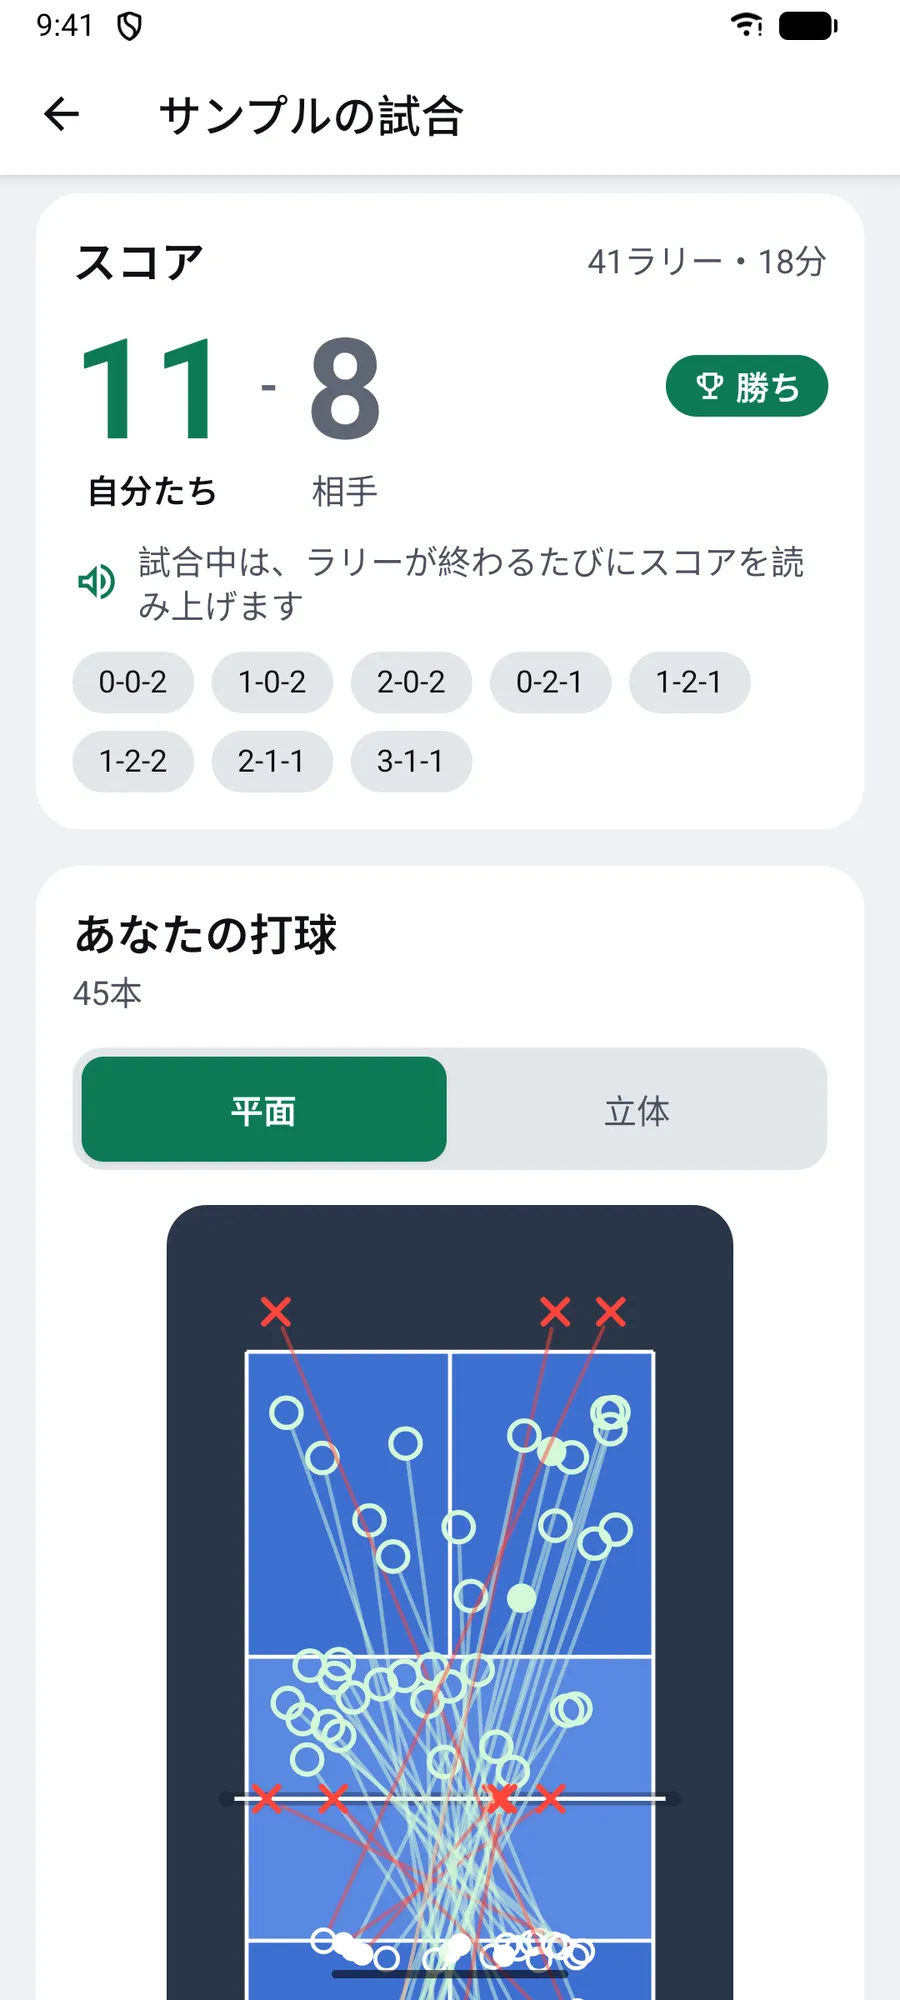
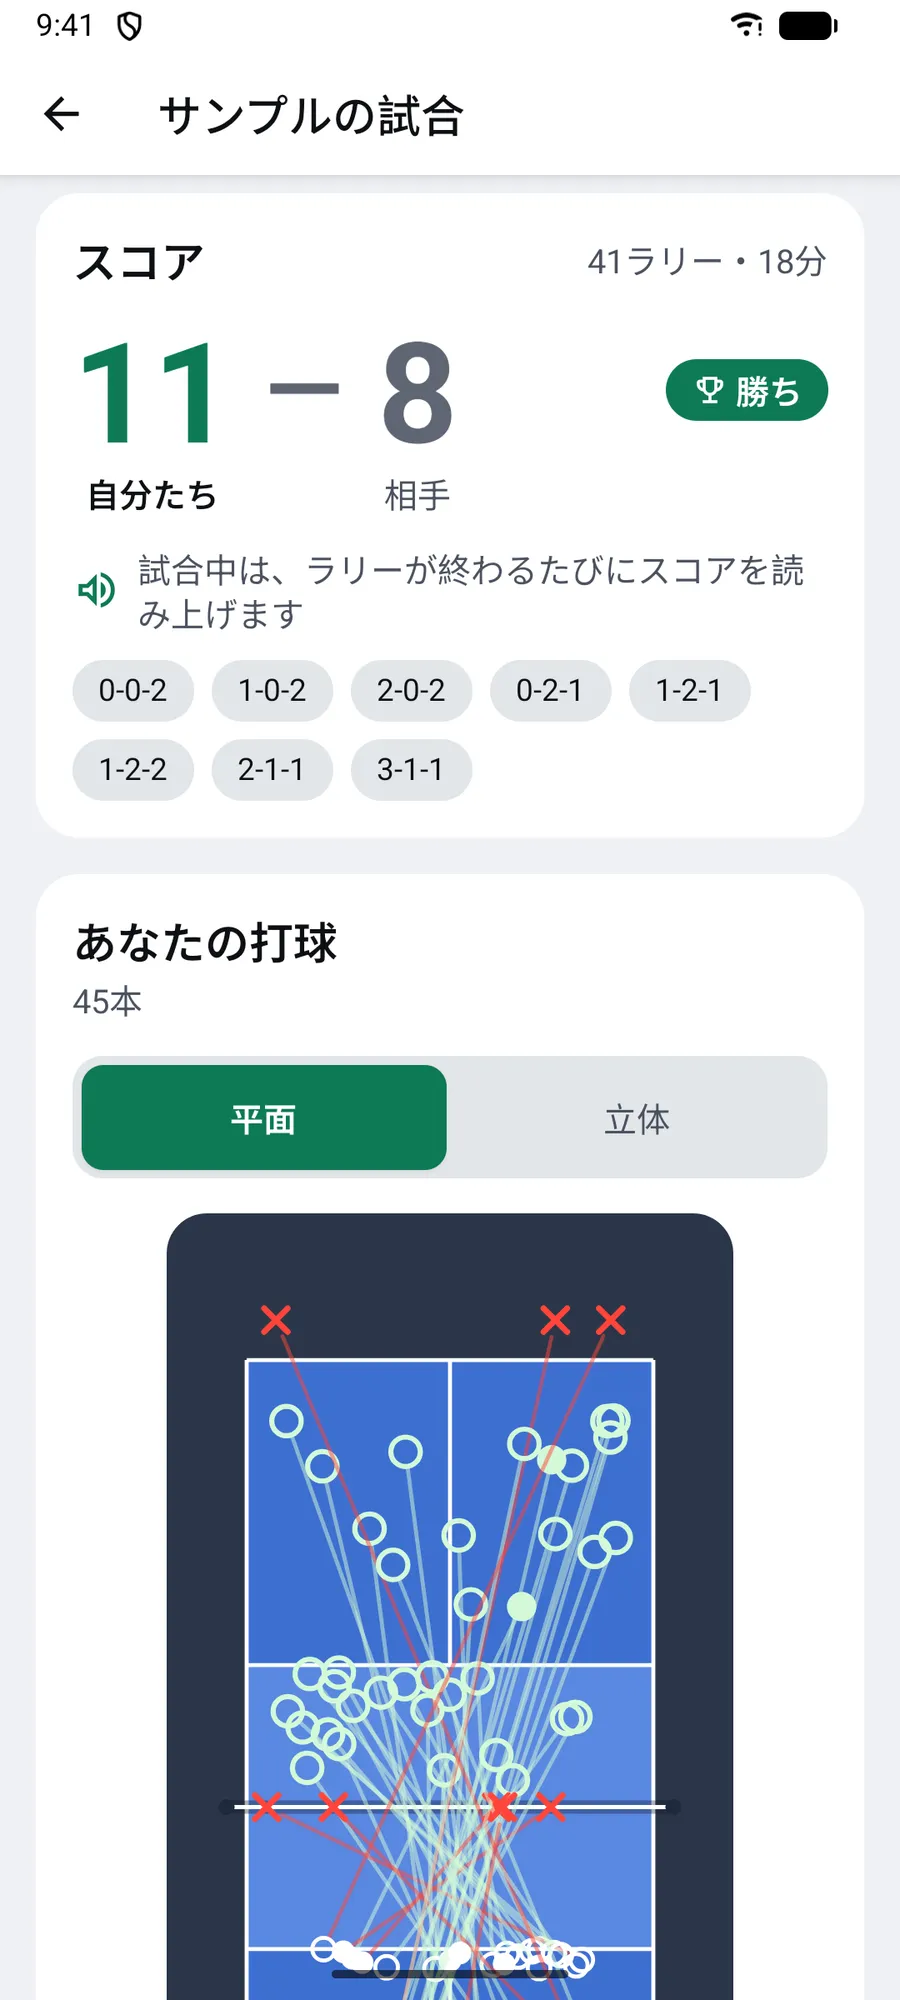
Pickle Up のページの見出しの下の文を「失点したショットが分かれば、意識・練習が変わる。撮影した動画から得意や苦手を見つけ、次の練習に役立てることができます。」にする。スコアの画像を、間の記号を大きくした画面で撮り直す
Claude-Session: https://claude.ai/code/session_01RcorTwHLSLi3TqpLhpw8hm

diff --git a/ja/apps/pickle-up/index.html b/ja/apps/pickle-up/index.html
@@ -63,7 +63,7 @@
 <div class="wrap hero-grid">
 <div class="hero-copy">
 <h1><span class="phrase">撮るだけで</span><span class="phrase">次の試合が変わる</span></h1>
-<p class="lead">コーチがいなくても、自分の弱点が分かる。試合の動画から点を落としているショットを見つけ、次に練習することまで教えます。</p>
+<p class="lead">失点したショットが分かれば、意識・練習が変わる。撮影した動画から得意や苦手を見つけ、次の練習に役立てることができます。</p>
 <div class="stores stores-hero"><span class="store"><img src="/images/apps/badges/app-store-ja.svg" alt="App Store からダウンロード" width="131" height="48"></span><span class="store"><img src="/images/apps/badges/google-play-ja.png" alt="Google Play で手に入れよう" width="161" height="48"></span></div><p class="stores-note">近日公開</p>
 </div>
 <div class="hero-media">

diff --git a/en/apps/pickle-up/index.html b/en/apps/pickle-up/index.html
@@ -63,7 +63,7 @@
 <div class="wrap hero-grid">
 <div class="hero-copy">
 <h1><span class="phrase">Just film it.</span><span class="phrase">Play better next game.</span></h1>
-<p class="lead">No coach? You’ll still find your weak spots: the shots costing you points, and what to practise next.</p>
+<p class="lead">See the shots that lose you points, and your game changes. Your video shows your strengths and weak spots to practise.</p>
 <div class="stores stores-hero"><span class="store"><img src="/images/apps/badges/app-store-en.svg" alt="Download on the App Store" width="144" height="48"></span><span class="store"><img src="/images/apps/badges/google-play-en.png" alt="Get it on Google Play" width="161" height="48"></span></div><p class="stores-note">Coming soon</p>
 </div>
 <div class="hero-media">

diff --git a/scripts/app_pages/pickle_up.py b/scripts/app_pages/pickle_up.py
@@ -31,7 +31,7 @@ JA = {
     'carousel': {'prev': '前の画面', 'next': '次の画面', 'slide': '{n}枚目'},
     'hero': {
         'title': ['撮るだけで', '次の試合が変わる'],
-        'lead': 'コーチがいなくても、自分の弱点が分かる。試合の動画から点を落としているショットを見つけ、次に練習することまで教えます。',
+        'lead': '失点したショットが分かれば、意識・練習が変わる。撮影した動画から得意や苦手を見つけ、次の練習に役立てることができます。',
         'screen': '3d-all',
         'screenAlt': 'サンプルの試合の画面。45本の打球を立体のコートに描き、イン率82%、ネットからの高さの中央値 +19cm を表示している',
     },
@@ -163,7 +163,7 @@ EN = {
     'carousel': {'prev': 'Previous screen', 'next': 'Next screen', 'slide': 'Screen {n}'},
     'hero': {
         'title': ['Just film it.', 'Play better next game.'],
-        'lead': 'No coach? You’ll still find your weak spots: the shots costing you points, and what to practise next.',
+        'lead': 'See the shots that lose you points, and your game changes. Your video shows your strengths and weak spots to practise.',
         'screen': '3d-all',
         'screenAlt': 'The sample match: 45 shots drawn on a 3D court, with an 82% in rate and a median height over the net of +19 cm',
     },
